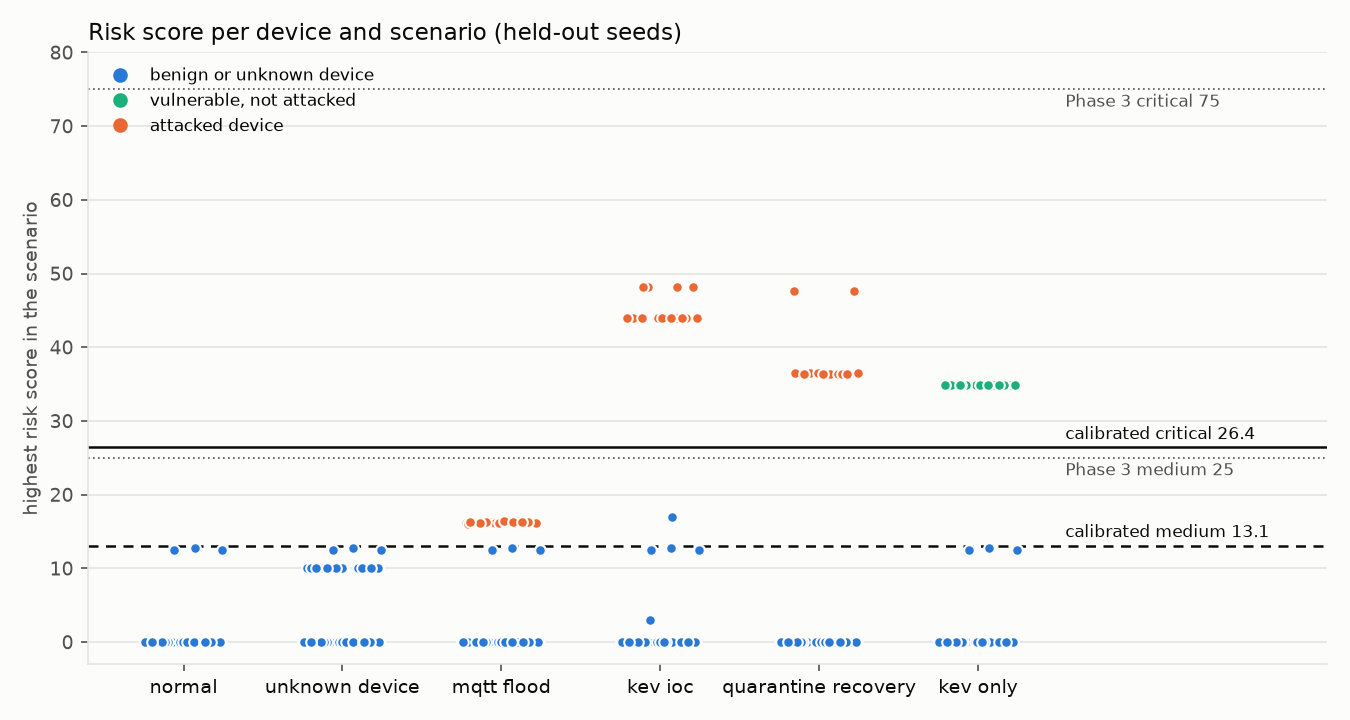
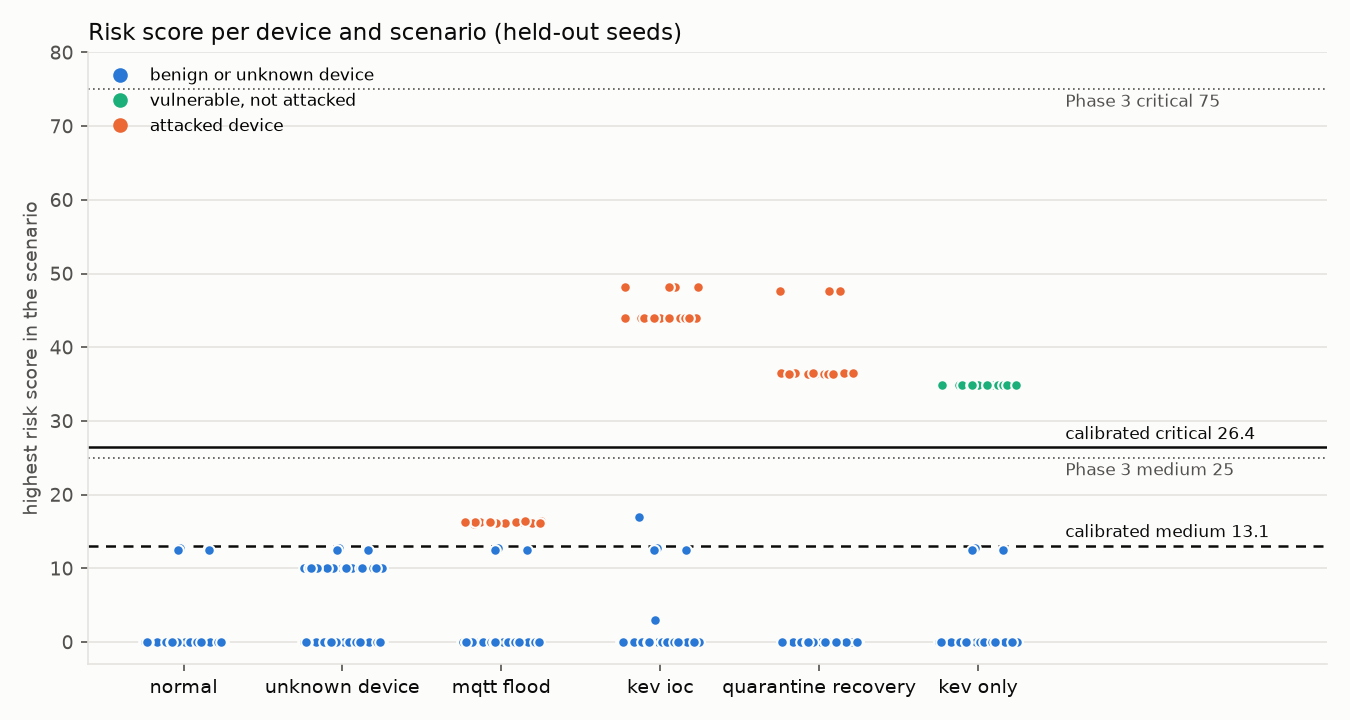
Phase 7: live virtual-lab evaluation results
- docs/evaluation/phase7/lab_runs.csv: 3 end-to-end runs against the Docker
  lab (real packets, Mosquitto, nftables, Socket.IO through nginx):
  automatic quarantine of a corroborated attack in 54.9 / 57.3 / 59.0 s,
  flood detection 5.2-12.0 s, C2 re-score 5.6-12.0 s, auto-recovery at
  expiry 0.1 s, nftables apply <= 324 ms (polled upper bound).
- lab_runs_pre_fix.csv keeps the runs that exposed the re-quarantine defect
  fixed in 0.9.1.
- Generated summary includes the lab table; report labels polled timings as
  upper bounds. CHANGELOG 0.9.1, .env.example and threat model updated for
  the operator-release grace period.

diff --git a/backend/app/evaluation/report.py b/backend/app/evaluation/report.py
@@ -216,8 +216,16 @@ LAB_METRICS = (
     ("flood_detect_s", "MQTT flood start -> ANOMALY_DETECTED on the live stream", "s"),
     ("c2_rescore_s", "C2 beacon -> IOC_CONTACT risk assessment", "s"),
     ("auto_quarantine_s", "C2 beacon + flood -> automatic quarantine by the risk engine", "s"),
-    ("quarantine_apply_ms", "operator API call -> IP in the nftables quarantine set", "ms"),
-    ("release_apply_ms", "release -> IP removed from the nftables set", "ms"),
+    (
+        "quarantine_apply_ms",
+        "operator API call -> IP in the nftables set (upper bound: polled via docker exec)",
+        "ms",
+    ),
+    (
+        "release_apply_ms",
+        "release -> IP removed from the nftables set (upper bound, same polling)",
+        "ms",
+    ),
     ("recovery_s", "quarantine expiry -> DEVICE_RESTORED (auto-recovery)", "s"),
     ("reconnect_s", "release -> device's next MQTT CONNECT (whole seconds)", "s"),
 )
@@ -244,14 +252,23 @@ def lab_section(path: Path) -> list[str]:
     auto = [r.get("c2_auto_quarantined") for r in runs]
     lines += [
         "",
-        f"C2 target (unknown device) auto-quarantined after a single beacon: {auto.count('True')} of",
-        f"{len(runs)} runs; an unknown device contacting a known C2 is critical with evidence of",
-        "compromise. Detection waits for the 60 s traffic window to close, so flood and C2 times",
-        "vary with where in the window the attack starts. Notes: "
+        f"C2 target auto-quarantined after a single beacon: {auto.count('True')} of {len(runs)} runs.",
+        "An unknown device contacting a known C2 is critical with evidence of compromise, but",
+        "automatic quarantine is paused for a device an operator released within",
+        "`DSN_OPERATOR_RELEASE_GRACE_MINUTES` (30); such skips are recorded in the audit log.",
+        "Detection waits for the 60 s traffic window to close, so flood and C2 times vary with",
+        "where in the window the attack starts. Notes: "
         + ("; ".join(f"run {r['run']}: {r['notes']}" for r in runs if r.get("notes")) or "none")
         + ".",
         "",
     ]
+    pre_fix = path.with_name("lab_runs_pre_fix.csv")
+    if pre_fix.exists():
+        lines += [
+            f"`{pre_fix.name}` keeps the earlier runs that exposed a defect (fixed in 0.9.1): run 2",
+            "never re-quarantined a device that stayed critical at an unchanged score.",
+            "",
+        ]
     return lines
 
 

diff --git a/docs/threat-model.md b/docs/threat-model.md
@@ -88,7 +88,7 @@ with mitigations. Status: ✅ in place · ⏳ planned (phase).
 
 | ID | Abuse case | Mitigations |
 |---|---|---|
-| E1 | **Self-lockout or mass quarantine** from a bug or poisoned intel. | DRY_RUN=true by default ✅, cannot be disabled in hosted mode ✅, logged loudly when disabled ✅. Protected hosts (gateway/broker/admin) and the broker IP are refused, as is anything outside `lab_cidr` ✅. Every quarantine has an expiry with auto-recovery (persistent job + 60 s sweep) ✅. Cap of `DSN_MAX_ACTIVE_QUARANTINES` concurrent quarantines ✅. Automatic quarantine only at CRITICAL **and** with observed evidence of compromise (behavior anomaly or contact with a known indicator); exposure alone (a KEV CVE) goes to operator review ✅ (tested). Thresholds calibrated on simulated scenarios with held-out evaluation (Phase 7) ✅. Manual release via API/CLI ✅. All tested. |
+| E1 | **Self-lockout or mass quarantine** from a bug or poisoned intel. | DRY_RUN=true by default ✅, cannot be disabled in hosted mode ✅, logged loudly when disabled ✅. Protected hosts (gateway/broker/admin) and the broker IP are refused, as is anything outside `lab_cidr` ✅. Every quarantine has an expiry with auto-recovery (persistent job + 60 s sweep) ✅. Cap of `DSN_MAX_ACTIVE_QUARANTINES` concurrent quarantines ✅. Automatic quarantine only at CRITICAL **and** with observed evidence of compromise (behavior anomaly or contact with a known indicator); exposure alone (a KEV CVE) goes to operator review ✅ (tested). A human release pauses automatic re-quarantine of that device for a grace period (audited); an automatic expiry does not, so an attack that continues is re-contained ✅ (tested). Thresholds calibrated on simulated scenarios with held-out evaluation (Phase 7) ✅. Manual release via API/CLI ✅. All tested. |
 | E2 | **Firewall state drift** after a crash, leaving devices quarantined forever or released early. | Desired state persisted in the DB ✅. At startup: release expired, then atomically replace the `inet dsn` table seeded with the desired set ✅ (tested against real nftables). Drift diff is audited ✅. Recovery jobs are persistent, with a sweep fallback ✅. |
 | E3 | **Privilege creep:** the API process holds `NET_ADMIN`. | Base stack: no capabilities, dry-run only ✅. Gateway override: only `NET_ADMIN` + `NET_RAW`, granted as file capabilities to `nft`/`nmap`; the Python process runs as an unprivileged user ✅. Commands are argv lists with validated IPs, no shell ✅. Residual: host networking exposes the API on the host's interfaces if DSN_API_HOST is not loopback. |
 | E4 | **Repudiation:** "who quarantined this?" | Append-only, hash-chained audit log with actor, action, outcome, reason and evidence for every quarantine, release, extension, refusal, reconcile, approval and status-node ack ✅. `GET /api/audit/verify` detects edits and deletions ✅ (tested). Residual: full DB-write access can rewrite the chain, so anchor the head hash externally. |

diff --git a/docs/evaluation/phase7/README.md b/docs/evaluation/phase7/README.md
@@ -67,7 +67,32 @@ for both threshold sets): accuracy 100.0%, precision 100.0%, recall 100.0% (TP 4
 | live event delivery, burst of 2000 (ms, loopback WebSocket) | 157.4 / 176.1 / 177.4 (n=2000) |
 
 Quarantine timings here use the dry-run driver; the real nftables path and device
-reconnection are measured in the virtual lab (`lab_runs.csv`, if present).
+reconnection are measured in the virtual lab below.
+
+## Virtual lab, end to end (wall clock)
+
+`scripts/lab_eval.py` against the running Docker lab: real packets through the gateway,
+real Mosquitto, real nftables, events received over Socket.IO through nginx. 3 runs.
+
+| measurement | run 0 | run 1 | run 2 |
+|---|---|---|---|
+| MQTT flood start -> ANOMALY_DETECTED on the live stream | 5.2 s | 12.0 s | 10.9 s |
+| C2 beacon -> IOC_CONTACT risk assessment | 5.6 s | 12.0 s | 11.3 s |
+| C2 beacon + flood -> automatic quarantine by the risk engine | 54.9 s | 57.3 s | 59.0 s |
+| operator API call -> IP in the nftables set (upper bound: polled via docker exec) | 324 ms | 285 ms | 210 ms |
+| release -> IP removed from the nftables set (upper bound, same polling) | 137 ms | 196 ms | 157 ms |
+| quarantine expiry -> DEVICE_RESTORED (auto-recovery) | 0.1 s | 0.1 s | 0.1 s |
+| release -> device's next MQTT CONNECT (whole seconds) | 4 s | 1 s | 0 s |
+
+C2 target auto-quarantined after a single beacon: 0 of 3 runs.
+An unknown device contacting a known C2 is critical with evidence of compromise, but
+automatic quarantine is paused for a device an operator released within
+`DSN_OPERATOR_RELEASE_GRACE_MINUTES` (30); such skips are recorded in the audit log.
+Detection waits for the 60 s traffic window to close, so flood and C2 times vary with
+where in the window the attack starts. Notes: none.
+
+`lab_runs_pre_fix.csv` keeps the earlier runs that exposed a defect (fixed in 0.9.1): run 2
+never re-quarantined a device that stayed critical at an unchanged score.
 
 ![Risk scores](score_distribution.png)
 

diff --git a/CHANGELOG.md b/CHANGELOG.md
@@ -1,5 +1,24 @@
 # Changelog
 
+## [0.9.1] Live-lab evaluation fixes, 2026-10-08
+
+### Fixed (found by `make lab-eval` in the virtual lab)
+- **An expired quarantine was never re-applied while the attack continued.**
+  - *Cause:* a device that stayed critical at an unchanged score never reached the
+    response layer again, because `RISK_UPDATED` was only emitted on score/level
+    changes.
+  - *Evidence:* the archived run 2 in `docs/evaluation/phase7/lab_runs_pre_fix.csv`
+    shows "no automatic quarantine".
+  - *Fix:* new evidence (`IOC_CONTACT`, `ANOMALY_DETECTED`) on a quarantine-worthy
+    decision is now published even at an unchanged score.
+- **Operator decisions win.** Automatic quarantine of a device a human just released
+  pauses for `DSN_OPERATOR_RELEASE_GRACE_MINUTES` (default 30), and the skip is
+  audited. An automatic expiry does not pause it.
+- **A flood from a quarantined lab device no longer hangs.** It used to retry
+  1,000 × 3 s timeouts; it now stops after 10 consecutive failed connects.
+- **`lab_eval.py` saves results incrementally.** It writes the CSV after every run
+  and reports reconnect time in whole seconds, matching the broker log's resolution.
+
 ## [0.9.0] Phase 7: simulation and evaluation, 2026-10-08
 
 ### Added
